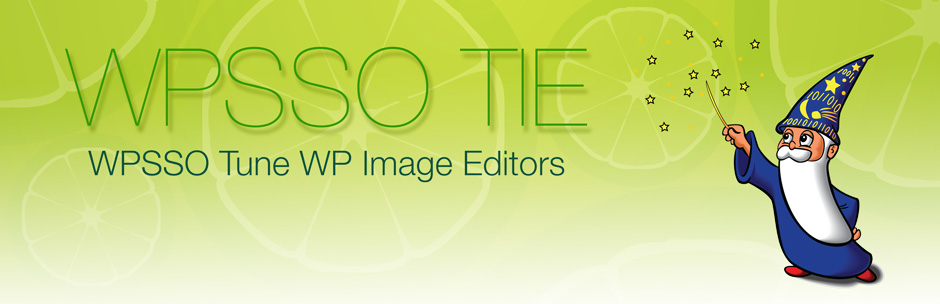
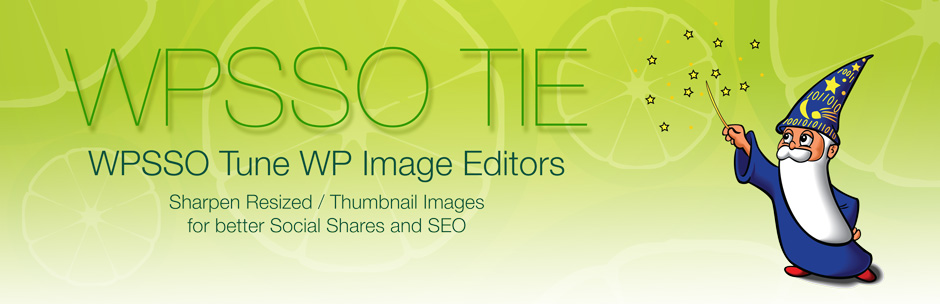
non-essential support files (documentation and assets)

Changed region(s): [[0.1851, 0.6217, 0.5245, 0.7697]]

diff --git a/index.html b/index.html
@@ -25,7 +25,7 @@
         </ul>
       </header>
       <section>
-<h1>WPSSO Tune WP Image Editors</h1><h3>Sharpen Resized / Thumbnail Images for Better Social Shares and SEO</h3>
+<h1>WPSSO Tune WP Image Editors</h1><h3>Sharpen Resized / Thumbnail Images for better Social Shares and SEO</h3>
 
 <table>
 <tr><th align="right" valign="top" nowrap>Plugin Name</th><td>WPSSO Tune WP Image Editors</td></tr>
